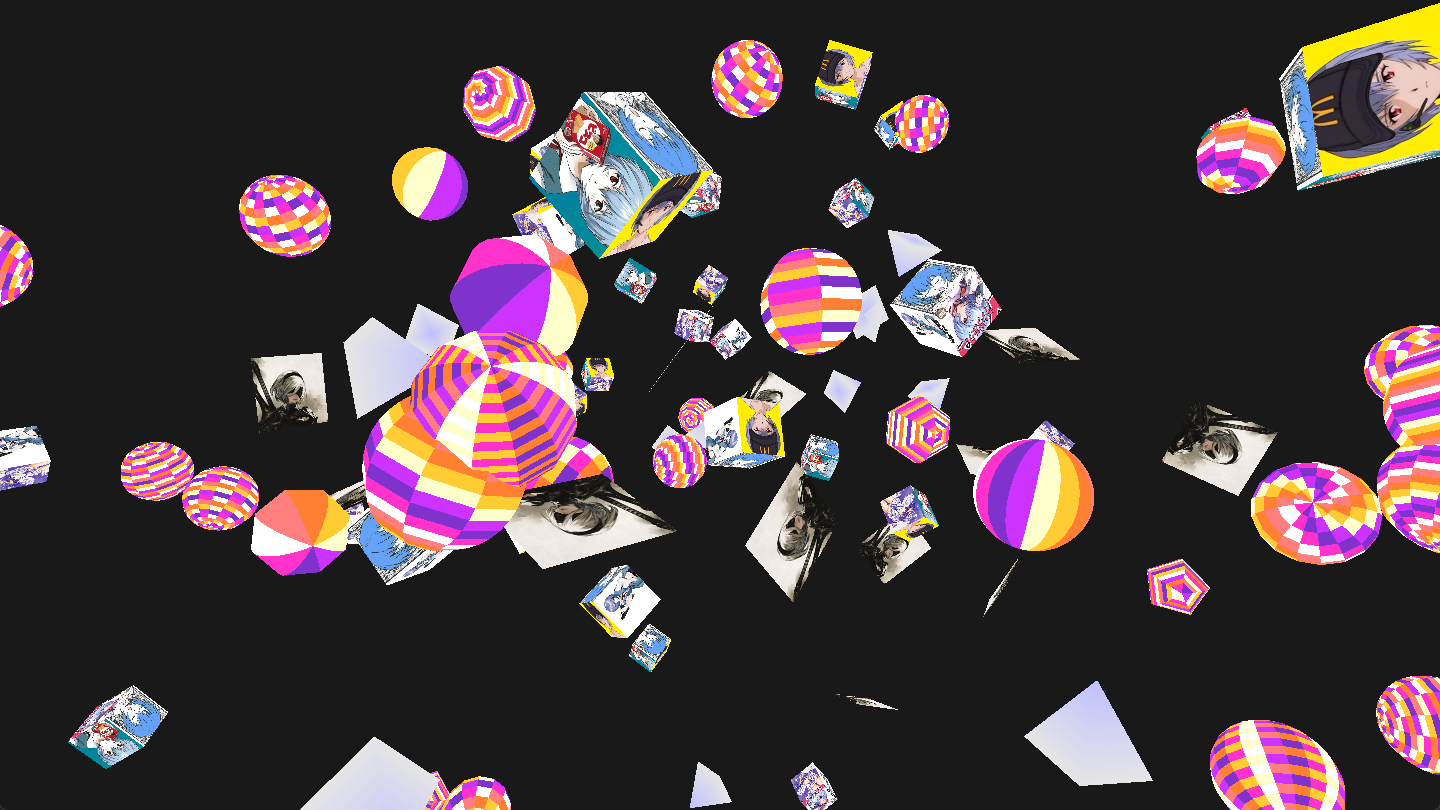
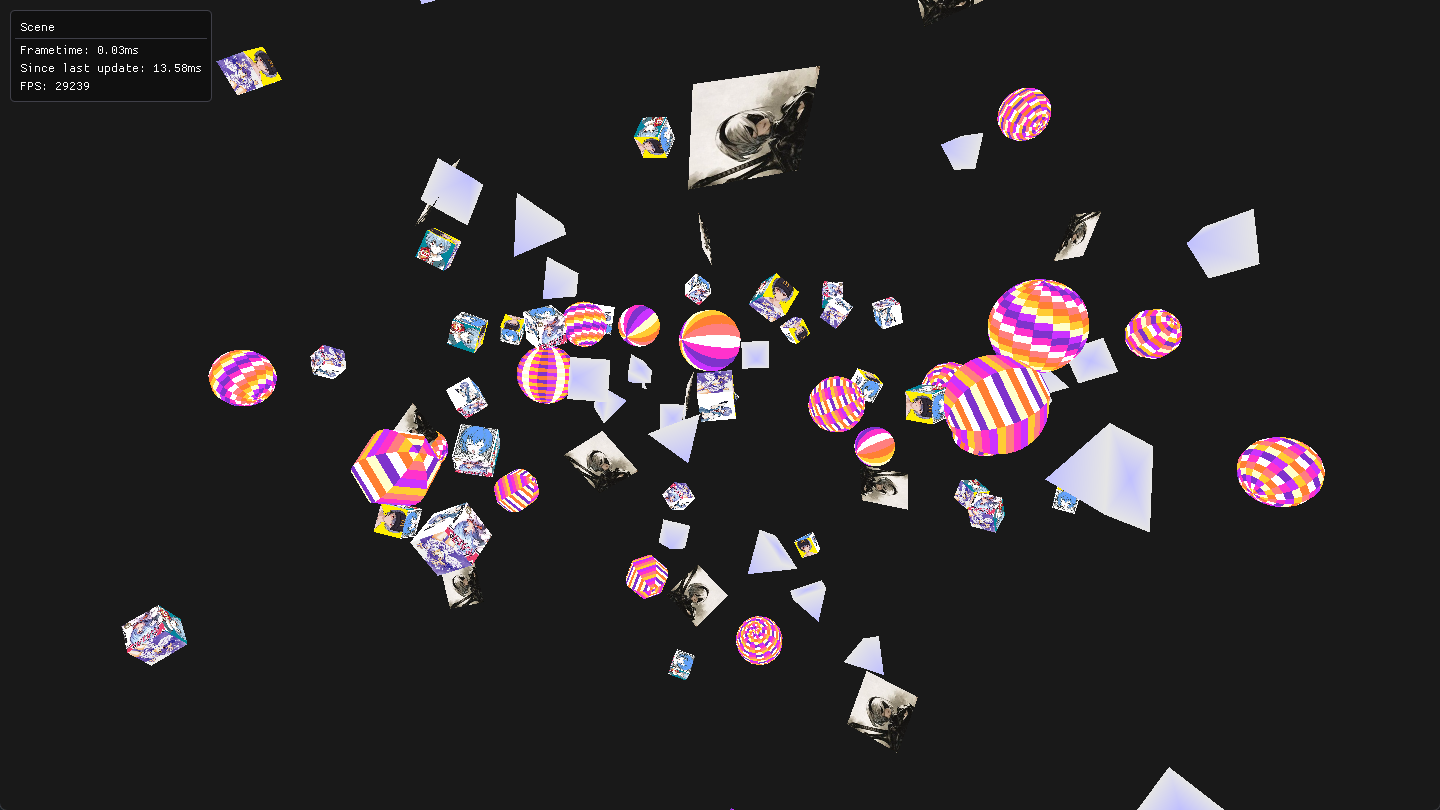
Add ImGui
and a basic overlay showing scene info with it.

diff --git a/src/Cinq.cpp b/src/Cinq.cpp
@@ -29,15 +29,60 @@ void Cinq::update() {
     float bgColor[4] {.1f, .1f, .1f, .1f};
     window.getGraphicsPipeline().clearBuffer(bgColor);
 
+    // Draw scene
     for (auto& drawable : drawables) {
         drawable->update(ts);
         drawable->draw(window.getGraphicsPipeline());
     }
 
     float t1 = timer.sinceLastLap();
-    char buf[128];
-    sprintf(buf, "%s %.2fms frametime (%.2fms since last update / %d FPS)", title, t1*1000, ts*1000, (int)(1000/(ts*1000))); 
-    window.setTitle(buf);
 
+    // Draw imgui
+    ImGui_ImplDX11_NewFrame();
+    ImGui_ImplWin32_NewFrame();
+    ImGui::NewFrame();
+
+    static bool showControls = true;
+    static bool showDemo  = false;
+
+    if (showDemo) {
+        ImGui::ShowDemoWindow(&showDemo);
+    }
+
+    // Scene controls overlay - Mostly copied from the demo
+    {
+        static int location = 0;
+        ImGuiWindowFlags windowFlags = 
+            ImGuiWindowFlags_NoDecoration       |
+            ImGuiWindowFlags_AlwaysAutoResize   |
+            ImGuiWindowFlags_NoSavedSettings    |
+            ImGuiWindowFlags_NoFocusOnAppearing |
+            ImGuiWindowFlags_NoNav;
+
+        const float PAD = 10.0f;
+        const ImGuiViewport* viewport = ImGui::GetMainViewport();
+        ImVec2 workspacePos = viewport->WorkPos; // Use work area to avoid menu-bar/task-bar, if any!
+        ImVec2 workspaceSize = viewport->WorkSize;
+        ImVec2 position, posPivot;
+        position.x = (location & 1) ? (workspacePos.x + workspaceSize.x - PAD) : (workspacePos.x + PAD);
+        position.y = (location & 2) ? (workspacePos.y + workspaceSize.y - PAD) : (workspacePos.y + PAD);
+        posPivot.x = (location & 1) ? 1.f : 0.f;
+        posPivot.y = (location & 2) ? 1.f : 0.f;
+        ImGui::SetNextWindowPos(position, ImGuiCond_Always, posPivot);
+        windowFlags |= ImGuiWindowFlags_NoMove;
+
+        if (ImGui::Begin("Scene", &showControls, windowFlags)) {
+            ImGui::Text("Scene");
+            ImGui::Separator();
+            ImGui::Text("FPS: %d", (int)(1000/(t1*1000)));
+            ImGui::Text("Frametime: %.2fms", t1*1000);
+            ImGui::Text("Since last update: %.2fms", ts*1000);
+        }
+        ImGui::End();
+    }
+
+
+    ImGui::Render();
+    ImGui_ImplDX11_RenderDrawData(ImGui::GetDrawData());
     window.getGraphicsPipeline().presentBuffer();
 }

diff --git a/src/Window.cpp b/src/Window.cpp
@@ -2,6 +2,9 @@
 
 Window::WindowClass Window::WindowClass::windowClass;
 
+// Forward declare message handler from imgui_impl_win32.cpp
+extern IMGUI_IMPL_API LRESULT ImGui_ImplWin32_WndProcHandler(HWND hWnd, UINT msg, WPARAM wParam, LPARAM lParam);
+
 Window::WindowClass::WindowClass() noexcept 
     : hInstance(GetModuleHandle(nullptr)) {
     // Create window class
@@ -35,7 +38,7 @@ Window::Window(int width, int height, const char* title)
         throw CINQ_LAST_EXCEPT();
 
     // Create window
-    hWnd = CreateWindowEx(
+    window = CreateWindowEx(
         0,
         WindowClass::getName(),                     // Window class
         title,                                      // Window text
@@ -51,18 +54,21 @@ Window::Window(int width, int height, const char* title)
         this                                        // Additional application data
     );
 
-    if (!hWnd)
+    if (!window)
         throw CINQ_LAST_EXCEPT();
 
-    ShowWindow(hWnd, SW_SHOWDEFAULT);
+    ShowWindow(window, SW_SHOWDEFAULT);
 
-    pipeline = std::make_unique<Pipeline>(hWnd, width, height);
+    // Init ImGui Window
+    ImGui_ImplWin32_Init(window);
+
+    pipeline = std::make_unique<Pipeline>(window, width, height);
 }
 
 void Window::setTitle(const char* title) {
     this->title = (char*)title;
     if (title) {
-        if (SetWindowText(hWnd, title) == FALSE)
+        if (SetWindowText(window, title) == FALSE)
             throw CINQ_LAST_EXCEPT();
     }
 }
@@ -99,6 +105,10 @@ Result CALLBACK Window::handleMsgThunk(HWND hWnd, uint msg, uint64_t uParam, int
 }
 
 Result Window::handleMsg(HWND hWnd, uint msg, uint64_t uParam, int64_t param) noexcept {
+    if(ImGui_ImplWin32_WndProcHandler(hWnd, msg, uParam, param)){
+        return true;
+    }
+
     switch (msg) {
         case WM_CLOSE:
             PostQuitMessage(0);

diff --git a/src/Window.hpp b/src/Window.hpp
@@ -1,4 +1,5 @@
 #pragma once
+#include "Imgui.hpp"
 #include "Mouse.hpp"
 #include "Windows.hpp"
 #include "Keyboard.hpp"
@@ -41,7 +42,7 @@ public:
     };
 
 private:
-    HWND hWnd;
+    HWND window;
     char* title;
     int width, height;
     std::unique_ptr<Pipeline> pipeline;
@@ -54,7 +55,12 @@ public:
     Keyboard keyboard;
 
     Window(int width, int height, const char* title);
-    ~Window() { DestroyWindow(hWnd); }
+    ~Window() { 
+        DestroyWindow(window);
+
+        ImGui_ImplDX11_Shutdown();
+        ImGui_ImplWin32_Shutdown();
+    }
     Window(const Window&) = delete;
     Window& operator=(const Window&) = delete;
     void setTitle(const char* title = nullptr);

diff --git a/src/Pipeline.cpp b/src/Pipeline.cpp
@@ -92,14 +92,13 @@ Pipeline::Pipeline(HWND hWnd, int width, int height) : width(width), height(heig
     viewport.TopLeftX = 0.;
     viewport.TopLeftY = 0.;
     deviceContext->RSSetViewports(1, &viewport);
+
+    // Init ImGui Renderer
+    ImGui_ImplDX11_Init(device.Get(), deviceContext.Get());
 }
 
 void Pipeline::presentBuffer() {
-    // Changing SyncInterval to 0 will probably make windows bleed at this stage,
-    // because the frames take too little time to render and it can't handle updating the window
-    // that fast. || Cinq.cpp ln. 44-47
     swapchain->Present(1, NULL);
-    //                ~|~
 }
 
 void Pipeline::draw(size_t count) {

diff --git a/src/Imgui.cpp b/src/Imgui.cpp
@@ -1,0 +1,21 @@
+#include "Imgui.hpp"
+
+Imgui::Imgui() {
+    IMGUI_CHECKVERSION();
+    ImGui::CreateContext();
+
+    ImGuiStyle& style = ImGui::GetStyle();
+    style.TabRounding       = 11 / 3.;
+    style.GrabRounding      = 11 / 3.;
+    style.ChildRounding     = 11 / 3.;
+    style.FrameRounding     = 11 / 3.;
+    style.PopupRounding     = 11 / 3.;
+    style.WindowRounding    = 11 / 3.;
+    style.ScrollbarRounding = 11 / 3.;
+
+    style.ScaleAllSizes(1.33f);
+}
+
+Imgui::~Imgui() {
+    ImGui::DestroyContext();
+}

diff --git a/src/Ayanami.cpp b/src/Ayanami.cpp
@@ -11,7 +11,7 @@ int WINAPI WinMain(HINSTANCE hInstance, HINSTANCE hPrevInstance, char *cmdLine, 
     const int height = width / aspectRatio;
     
     try {
-      Cinq cinq(width, height, "Cinq"); // lol
+      Cinq cinq(width, height, "Cinq");
       cinq.run();
     } catch (const CinqException &e) {
       MessageBox(nullptr, e.what(), e.getType(), MB_OK | MB_ICONERROR);

diff --git a/src/Cinq.hpp b/src/Cinq.hpp
@@ -1,6 +1,7 @@
 #pragma once
 
 #include "Math.hpp"
+#include "Imgui.hpp"
 #include "Image.hpp"
 #include "Timer.hpp"
 #include "Camera.hpp"
@@ -19,6 +20,7 @@ public:
 
     int run();
 private:
+    Imgui gui;
     Timer timer;
     Window window;
     Camera camera;

diff --git a/src/Imgui.hpp b/src/Imgui.hpp
@@ -1,0 +1,11 @@
+#pragma once
+
+#include <imgui/imgui.h>
+#include <imgui/backends/imgui_impl_dx11.h>
+#include <imgui/backends/imgui_impl_win32.h>
+
+class Imgui {
+public:
+    Imgui();
+    ~Imgui();
+};

diff --git a/src/Pipeline.hpp b/src/Pipeline.hpp
@@ -1,7 +1,10 @@
 #pragma once
+
+#include "Imgui.hpp"
 #include "Windows.hpp"
 
 #include <list>
+
 #include <d3d11.h>
 #include <d3dcompiler.h>
 #include <DirectXMath.h>

diff --git a/README.md b/README.md
@@ -16,3 +16,4 @@
 
 ## Dependencies
 - [nothings - stb](https://github.com/nothings/stb)
+- [ocornut - imgui](https://github.com/ocornut/imgui)
